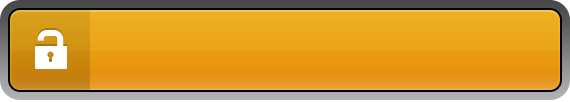
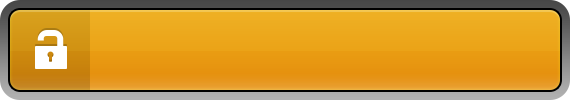
tweaked some buttons a bit

diff --git a/prj/DoubleDate/Classes/Views/UIView+Other.m b/prj/DoubleDate/Classes/Views/UIView+Other.m
@@ -17,10 +17,10 @@
     button.frame = CGRectMake(0, 0, image.size.width, image.size.height);
     button.autoresizingMask = UIViewAutoresizingFlexibleTopMargin | UIViewAutoresizingFlexibleBottomMargin;
     [button setBackgroundImage:image forState:UIControlStateNormal];
-    button.titleLabel.font = [UIFont fontWithName:@"HelveticaNeue-Bold" size:18];
-    button.titleLabel.shadowColor = [UIColor colorWithWhite:0 alpha:0.2f];
+    button.titleLabel.font = [UIFont fontWithName:@"HelveticaNeue-Bold" size:20];
+    button.titleLabel.shadowColor = [UIColor colorWithWhite:0 alpha:0.1f];
     button.titleLabel.shadowOffset = CGSizeMake(0, -1);
-    button.titleEdgeInsets = UIEdgeInsetsMake(0, 40, 0, 0);
+    button.titleEdgeInsets = UIEdgeInsetsMake(1, 40, 0, 0);
     return button;
 }
 
